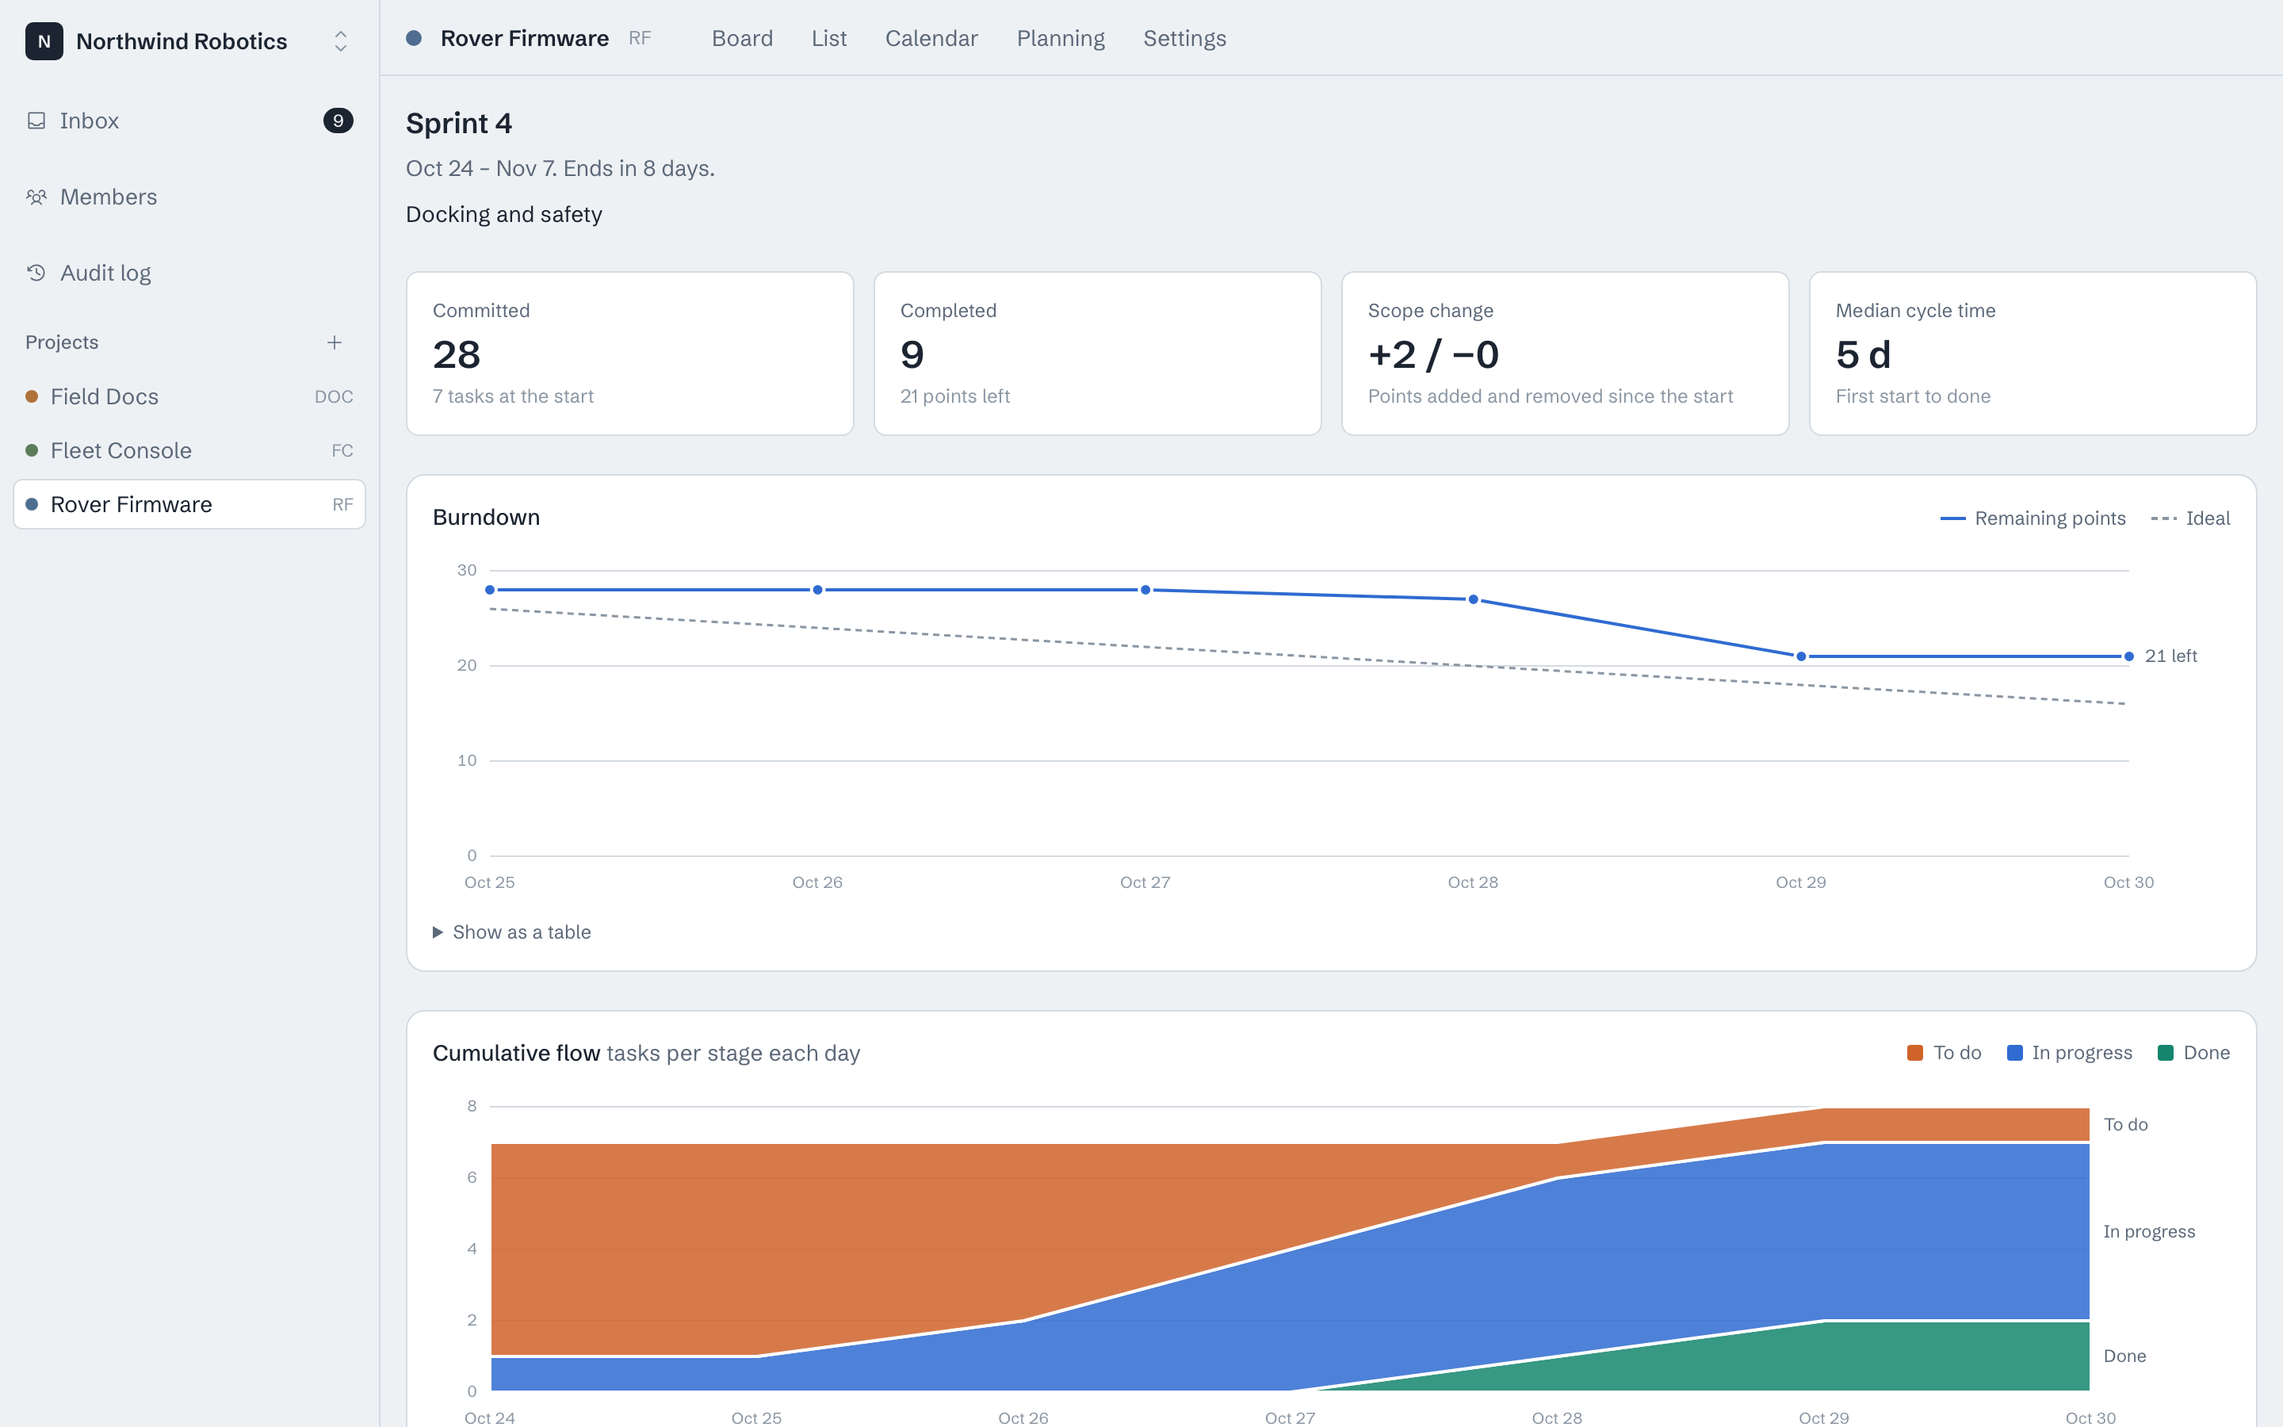
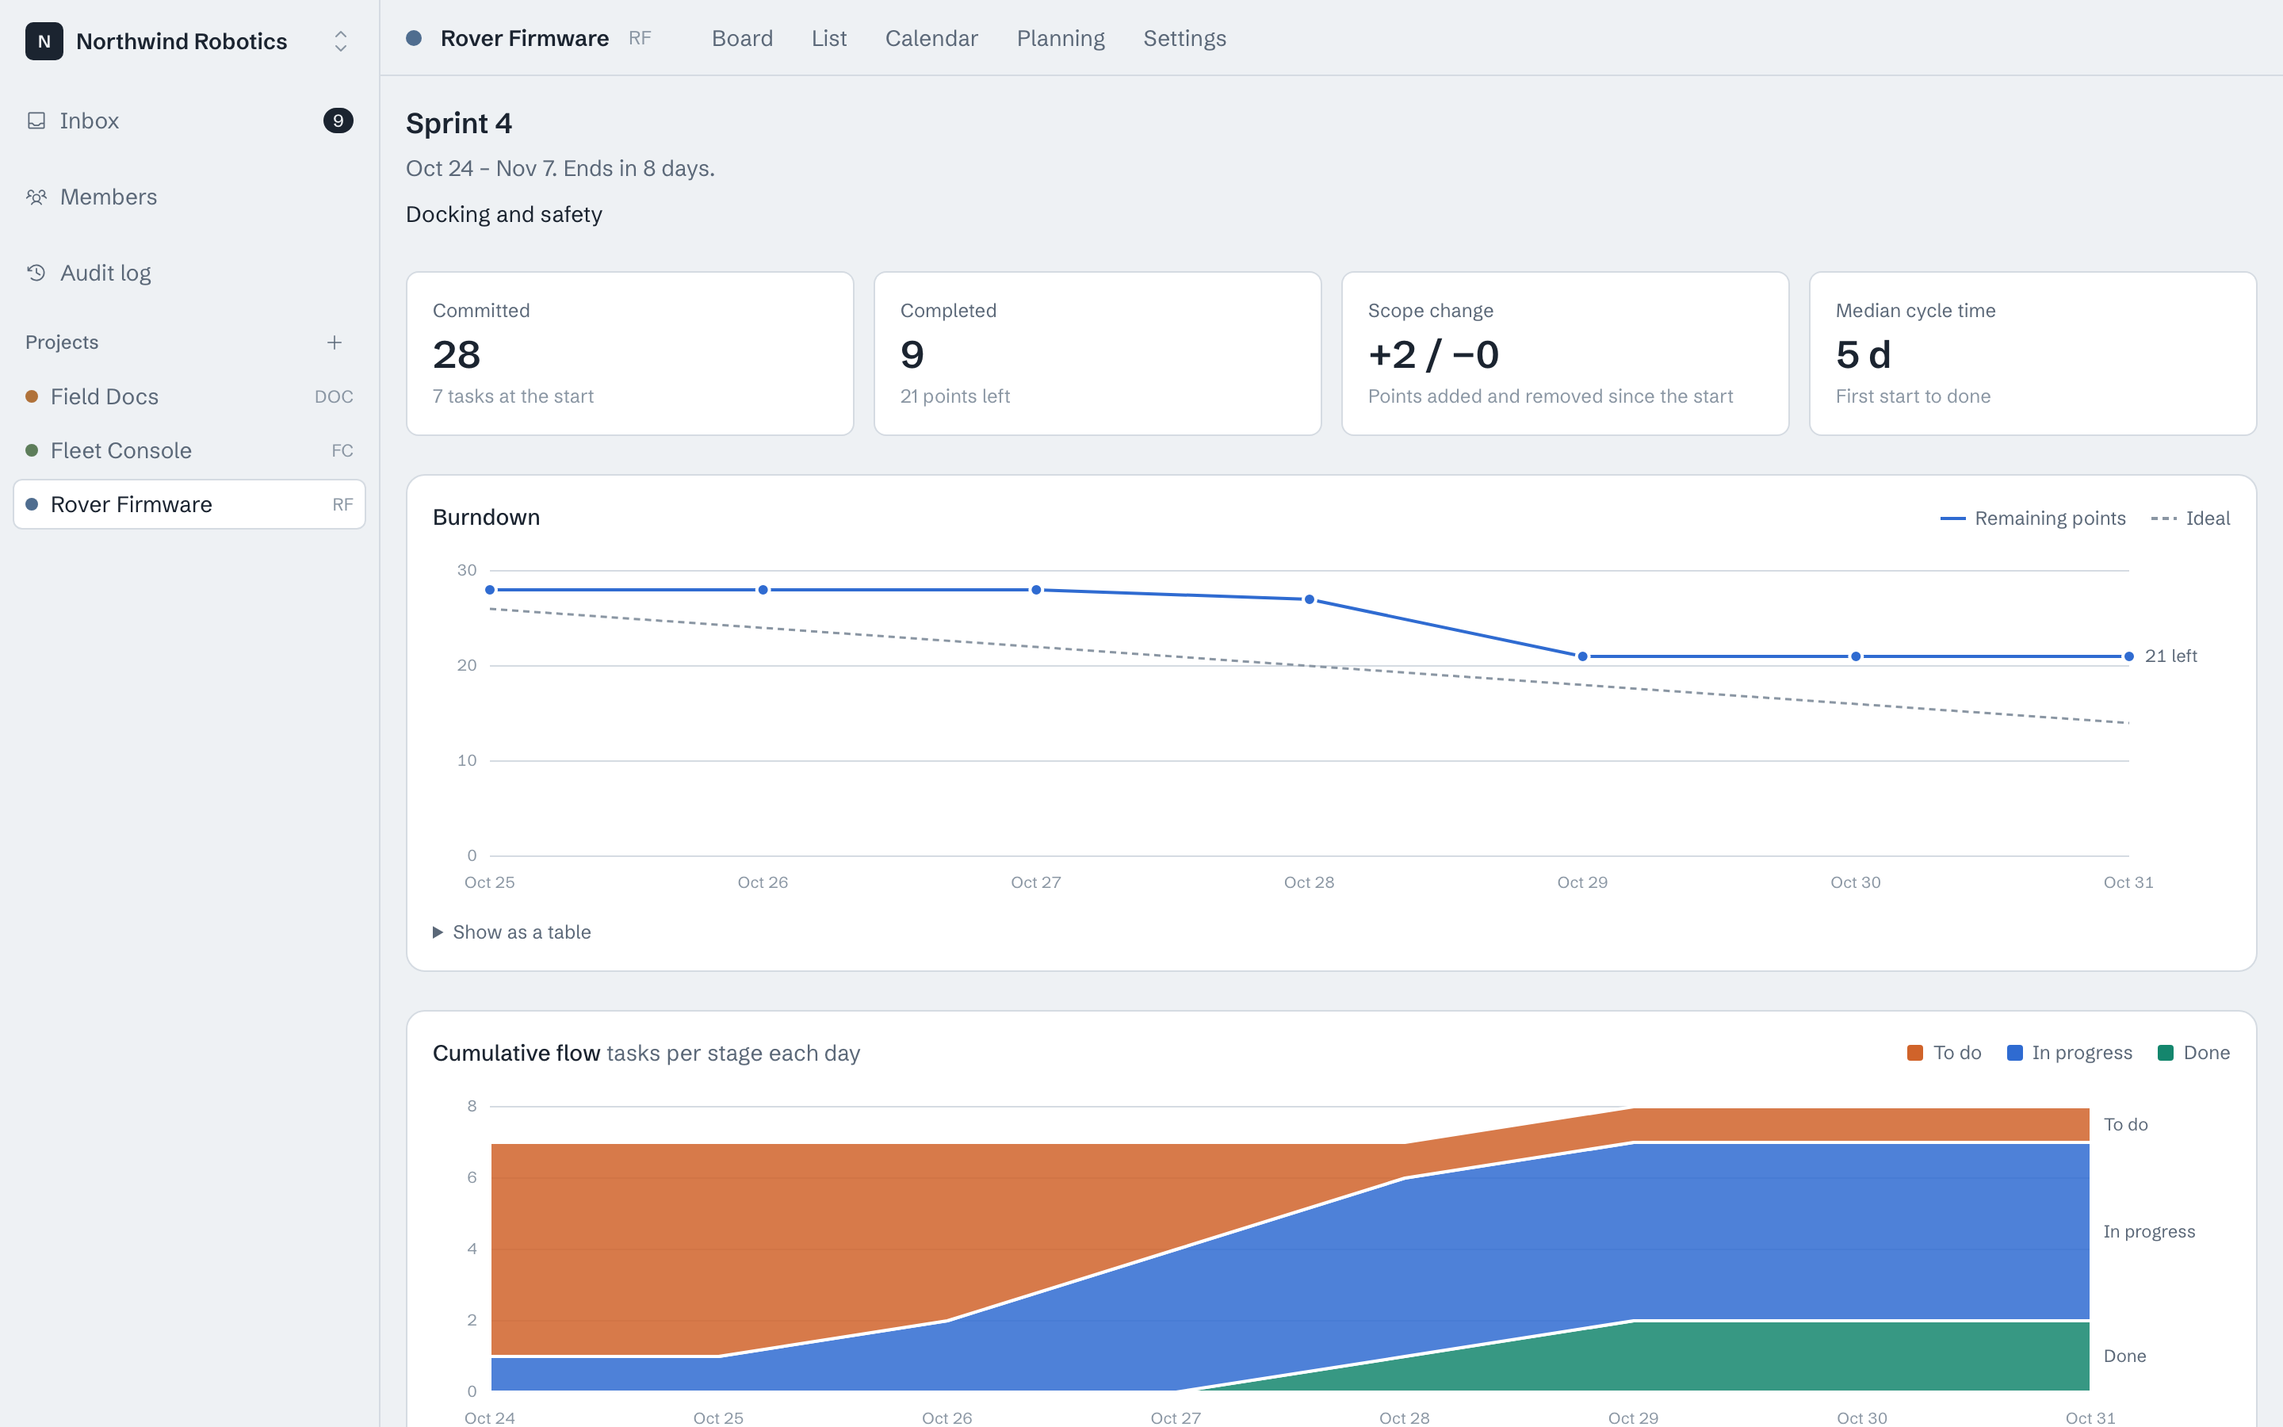
docs(work): deepen the TeamFlow case study
Architecture, structure and the site and docs were missing. Adds the
request path, tenancy, metrics, the monorepo layout and the docs to how
it works; four more decisions (the outbox, the contract, Yjs and
notifications in the transaction); six more screens (inbox, audit log,
phone, landing page, docs and the API reference); more highlights; and
questions on the code layout, testing and documentation.

diff --git a/lib/content/projects.ts b/lib/content/projects.ts
@@ -698,7 +698,7 @@ export const projects: Project[] = [
     tagline:
       "A real-time, keyboard-first agile workspace on a single Postgres database.",
     summary:
-      "TeamFlow is a planning workspace for software teams: a board, a list, a calendar and sprint planning over the same tasks, with live updates, presence and descriptions written together character by character. Version 2 rewrites my first NestJS API as a Bun monorepo with a contract-first API, a transactional outbox feeding WebSockets, and one PostgreSQL database that also runs the job queue. The original API, which ranked first in its backend cohort, is kept at v1.0.0.",
+      "TeamFlow is a planning workspace for software teams: a board, a list, a calendar and sprint planning over the same tasks, with live updates, presence and descriptions written together character by character. Version 2 rewrites my first NestJS API as a Bun monorepo: a contract-first API that also serves REST and OpenAPI, a transactional outbox feeding WebSockets, one PostgreSQL database that also runs the job queue, and an Astro site with Starlight docs. The original API, which ranked first in its backend cohort, is kept at v1.0.0.",
     year: 2026,
     group: "platforms",
     kind: "Real-time web app",
@@ -725,12 +725,16 @@ export const projects: Project[] = [
     links: [
       { label: "Source", href: gh("team-flow") },
       {
-        label: "Documentation",
-        href: `${gh("team-flow")}/blob/main/docs/README.md`,
+        label: "Architecture",
+        href: `${gh("team-flow")}/blob/main/docs/ARCHITECTURE.md`,
       },
       {
         label: "Decisions",
         href: `${gh("team-flow")}/tree/main/docs/adr`,
+      },
+      {
+        label: "Documentation",
+        href: `${gh("team-flow")}/blob/main/docs/README.md`,
       },
       {
         label: "v1 API",
@@ -783,10 +787,46 @@ export const projects: Project[] = [
           "One search across tasks, projects, actions and what was said in comments, with typo tolerance.",
       },
       {
+        src: "inbox",
+        title: "The inbox",
+        caption:
+          "Mentions, comments and assignments, written in the same transaction as the change that caused them and pushed as live toasts.",
+      },
+      {
+        src: "audit",
+        title: "The audit log",
+        caption:
+          "Who changed what in the workspace, including the membership and invitation changes the auth library makes on its own.",
+      },
+      {
+        src: "phone",
+        title: "On a phone",
+        caption:
+          "The sidebar folds into a drawer, the board scrolls sideways and a task opens full screen.",
+      },
+      {
         src: "board-dark",
         title: "The board in the dark theme",
         caption:
           "A palette chosen step by step for dark, not the light one inverted.",
+      },
+      {
+        src: "site",
+        title: "The landing page",
+        caption:
+          "An Astro page with near-zero JavaScript and a small board you can drive from the keyboard while a teammate's card moves on its own.",
+      },
+      {
+        src: "docs",
+        title: "The docs",
+        caption:
+          "Starlight: getting started, a guide for every view, the architecture with tenancy and real-time explained, roles and configuration.",
+      },
+      {
+        src: "api-reference",
+        title: "The API reference",
+        caption:
+          "Generated from the same contract the web app calls, so it cannot drift: every operation with its schema, its errors and a request to copy.",
       },
     ],
     proof: [
@@ -816,34 +856,57 @@ export const projects: Project[] = [
     approach: [
       {
         title: "One contract for every caller",
-        body: "Every procedure is declared once in an oRPC contract with Zod schemas. The web app calls it with inferred types through TanStack Query, and the same contract serves a REST API under /api/v1 with an OpenAPI document and personal access tokens that can be read-only and expire.",
+        body: "Every procedure is declared once in an oRPC contract with Zod schemas, including the errors it can return. The web app calls it with inferred types through TanStack Query, and the same contract serves a REST API under /api/v1, an OpenAPI document and a Scalar reference, with personal access tokens that can be read-only and expire.",
+      },
+      {
+        title: "A request, layer by layer",
+        body: "Hono middleware adds a request id, structured logs and secure headers. Better Auth resolves the session or token, oRPC middleware builds the actor, the active organization and a tenant scope, the procedure validates input, a service authorizes against the loaded resource, and only the repository touches tables.",
       },
       {
         title: "Changes that cannot get lost",
-        body: "Each mutation writes the change, its activity row and its outbox event in one transaction. A worker relays the outbox through LISTEN/NOTIFY to a WebSocket gateway, so a restart drops nothing, and a client only applies an update whose version is newer than the one it holds. A stale write is a conflict, never a silent overwrite.",
+        body: "Each mutation writes the change, its activity row and its outbox event in one transaction. A worker relays the outbox through LISTEN/NOTIFY to every API node's WebSocket gateway, so a restart drops nothing, and a client only applies an update whose version is newer than the one it holds. A stale write is a conflict, never a silent overwrite.",
       },
       {
         title: "Writing together",
-        body: "Task descriptions are Yjs documents edited in Tiptap, with each person's caret labelled by name. The server persists them and projects them to plain text for full-text search.",
+        body: "Task descriptions are Yjs documents edited in Tiptap, with each person's caret labelled by name. The API hosts the Yjs provider on the same socket server, persists merged state with debounced writes and projects it to plain text for full-text search.",
       },
       {
         title: "Order without renumbering",
         body: "Board order is a fractional index, so a move writes one row and the client can compute the same key before the server answers. A random suffix keeps two people inserting into the same gap apart, and a nightly job re-keys any column whose keys have grown long, under a per-column advisory lock that moves share.",
       },
       {
+        title: "Metrics replayed, not counted",
+        body: "Burndown, scope change, cumulative flow, velocity and cycle time are pure functions over a sprint's append-only activity, in a domain package with no I/O. Nothing drifts, because nothing is a running total.",
+      },
+      {
         title: "One database does the rest",
-        body: "pg-boss runs email, daily or weekly digests and maintenance in the same Postgres, and search is Postgres full-text with trigram matching. Tenancy lives in the application: every repository takes a scope, foreign keys include the organization, and an isolation suite tries to cross it.",
+        body: "pg-boss runs email, daily or weekly digests and maintenance in the same Postgres, presence is shared between API nodes over NOTIFY, and search is Postgres full-text with trigram matching. The only other stateful service is S3-compatible storage for attachments.",
+      },
+      {
+        title: "Tenancy by construction",
+        body: "Every tenant-owned table carries the organization, repositories only accept a scope bound to one, foreign keys between tenant tables are composite so a row cannot point across workspaces, and a test walks the schema to make sure no table escapes the isolation suite.",
+      },
+      {
+        title: "A monorepo with one-way dependencies",
+        body: "Four apps (api, worker, web, site) over eight packages: contract, db, domain, auth, realtime, email, ui and shared configs. Apps depend on packages, the domain depends on nothing but Zod, and the web app can never import the database.",
       },
       {
         title: "Built for hands on the keyboard",
-        body: "React Aria components throughout, drag and drop that works by keyboard and screen reader, a ⌘K palette, shortcuts for every view, and a layout that folds down to a phone.",
+        body: "React Aria components throughout, drag and drop that works by keyboard and screen reader, a ⌘K palette, shortcuts for every view, light and dark themes, and a layout that folds down to a phone.",
+      },
+      {
+        title: "Documented where people look",
+        body: "An Astro landing page, Starlight docs with guides and the architecture, a generated API reference, fourteen decision records, and a README whose screenshots and demo are produced from the seeded stack by Playwright.",
       },
     ],
     highlights: [
       "Live board updates and presence over WebSockets, fed by a transactional outbox",
       "Descriptions written together with Yjs and named carets",
-      "Contract-first API: typed RPC for the app, REST and OpenAPI for everyone else",
+      "Contract-first API: typed RPC for the app, REST, OpenAPI and a generated reference for everyone else",
       "Sprint reports replayed from an append-only activity log",
+      "Postgres for data, jobs, fan-out and search; no Redis",
+      "Accessible drag and drop, a command palette and shortcuts everywhere",
+      "Astro site, Starlight docs and fourteen architecture decision records",
       "437 tests, unit and integration on real Postgres plus Playwright journeys",
     ],
     decisions: [
@@ -853,14 +916,34 @@ export const projects: Project[] = [
         why: "pg-boss and LISTEN/NOTIFY carry this load easily and leave one thing to run and back up. Patchgrid uses Redis and BullMQ, so between them the two projects show both sides of that choice.",
       },
       {
+        chose: "a transactional outbox",
+        over: "publishing events after the commit",
+        why: "An event written in the same transaction as its change can be late but never lost or invented. The cost is a relay process and a table to prune.",
+      },
+      {
+        chose: "a contract-first API with oRPC",
+        over: "hand-written routes and a separate schema",
+        why: "One declaration gives the web app its types, third parties their REST endpoints and everyone the OpenAPI document. The contract has to be designed before the handler, which is the point.",
+      },
+      {
         chose: "tenancy enforced in the application",
         over: "row level security in the database",
-        why: "Patchgrid already puts the boundary in Postgres. Here a scope every repository must take, composite foreign keys through the organization and an isolation test suite carry it, and the cost is that the discipline lives in review and tests.",
+        why: "Patchgrid already puts the boundary in Postgres. Here a scope every repository must take, composite foreign keys through the organization and a schema-walking test carry it, and the cost is that the discipline lives in review and tests.",
       },
       {
         chose: "fractional ranks for order",
         over: "integer positions",
         why: "A move writes one row and never renumbers its neighbours, which keeps optimistic updates simple. Keys can grow under repeated inserts into one gap, so a rebalance job exists, and it needed a lock shared with moves to stay correct.",
+      },
+      {
+        chose: "Yjs for descriptions",
+        over: "last write wins on a text field",
+        why: "Two people typing in the same paragraph merge instead of overwriting each other. The document lives as binary state with a plain-text projection, so search still works.",
+      },
+      {
+        chose: "notifications written in the causing transaction",
+        over: "a job that creates them later",
+        why: "A comment is never saved without the notifications it causes, or the other way round. Only email, which can wait and retry, is left to a job.",
       },
       {
         chose: "a Vite single-page app",
@@ -909,8 +992,8 @@ export const projects: Project[] = [
       },
       {
         date: "2026-10-30",
-        title: "Rank rebalancing and a phone layout",
-        body: "The last deferred ordering job, a drawer layout for phones, and a recorded demo of two people on one board.",
+        title: "v2.0.5",
+        body: "Rank rebalancing, the last deferred ordering job; a drawer layout for phones; and a recorded demo of two people on one board.",
       },
     ],
     faq: [
@@ -923,12 +1006,24 @@ export const projects: Project[] = [
         a: "Fields carry a version, so the second save of a stale copy is refused as a conflict; the board refreshes and says why. Descriptions merge character by character instead, and two cards dropped into the same gap get distinct positions.",
       },
       {
+        q: "How is the code organised?",
+        a: "A Bun and Turborepo monorepo: api, worker, web and site apps over contract, db, domain, auth, realtime, email and ui packages. Each API feature goes contract, repository, service, router and integration test, and dependencies only point from apps to packages.",
+      },
+      {
+        q: "How is it tested?",
+        a: "Unit and integration tests with bun test, the integration ones against real Postgres: each file gets a fresh database cloned from a migrated template in milliseconds. Playwright runs journeys against a seeded stack, including two people on one board and layout guards at desktop and phone sizes, and CI runs all of it on every pull request.",
+      },
+      {
+        q: "Is there documentation?",
+        a: "Yes, in three places: Starlight docs with guides and the architecture, a generated API reference served by the API, and a docs folder with the vision, roadmap, conventions and fourteen decision records.",
+      },
+      {
         q: "Can I try it?",
         a: "It is not hosted, by decision. Locally it is Docker for Postgres, storage and mail, then migrate, seed and one dev command. The seed has six weeks of history; open a second browser as maya@northwind.test to watch changes arrive.",
       },
       {
         q: "What happened to the first version?",
-        a: "The NestJS and Prisma API is tagged as v1.0.0 and kept in the repository. Version 2 is a rewrite, not an upgrade: a new stack, a web app, real-time and tests.",
+        a: "The NestJS and Prisma API is tagged as v1.0.0 and kept in the repository. Version 2 is a rewrite, not an upgrade: a new stack, a web app, real-time, docs and tests.",
       },
       {
         q: "How is it different from Patchgrid?",
